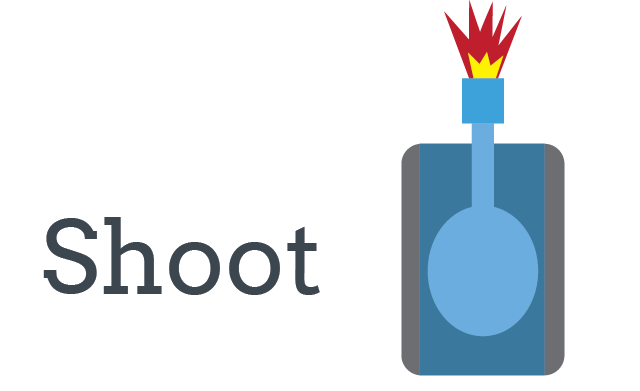
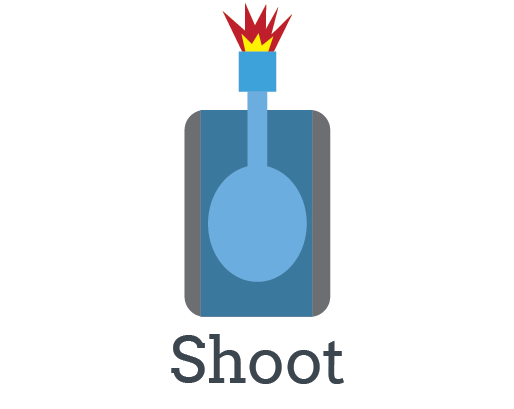
edited remote

diff --git a/app/client/css/styles.css b/app/client/css/styles.css
@@ -74,8 +74,8 @@ a, a:hover{
 
 .tankchoice2{
 	display:inline;
-	max-width: 65%;
-	margin-left: 17%;
+	max-width: 80%;
+	margin-left: 12%;
 }
 
 .spacer{
@@ -85,12 +85,17 @@ a, a:hover{
 #top {
 	background: #3C464F;
 	margin-bottom: 40px;
-	padding-top: 15px;
-	padding-bottom: 15px;
 }
 
 .toptitle {
 	color: white;
+}
+
+.toptitle2 {
+	color: white;
+	font-size: 2em;
+	padding-left: 15%;
+	padding-right: 15%;
 }
 
 .bottomspace {

diff --git a/app/client/remote/remote.html b/app/client/remote/remote.html
@@ -3,7 +3,7 @@
   <div id="top">
       <div class="container">
         <div class="row">
-          <h1 class = "toptitle" style = "text-align:center;">Your are player 1</h1>
+          <h1 class = "toptitle2" style = "text-align:center;">Turn the phone to turn the Tank</h1>
         </div>
       </div>
   </div>

diff --git a/app/client/player_remote/player_remote.html b/app/client/player_remote/player_remote.html
@@ -1,5 +1,7 @@
 <template name="player_remote">
 
+
+<h1> hello </h1>
   {{#with tank}}
 
   <div  class="tank-box" 
